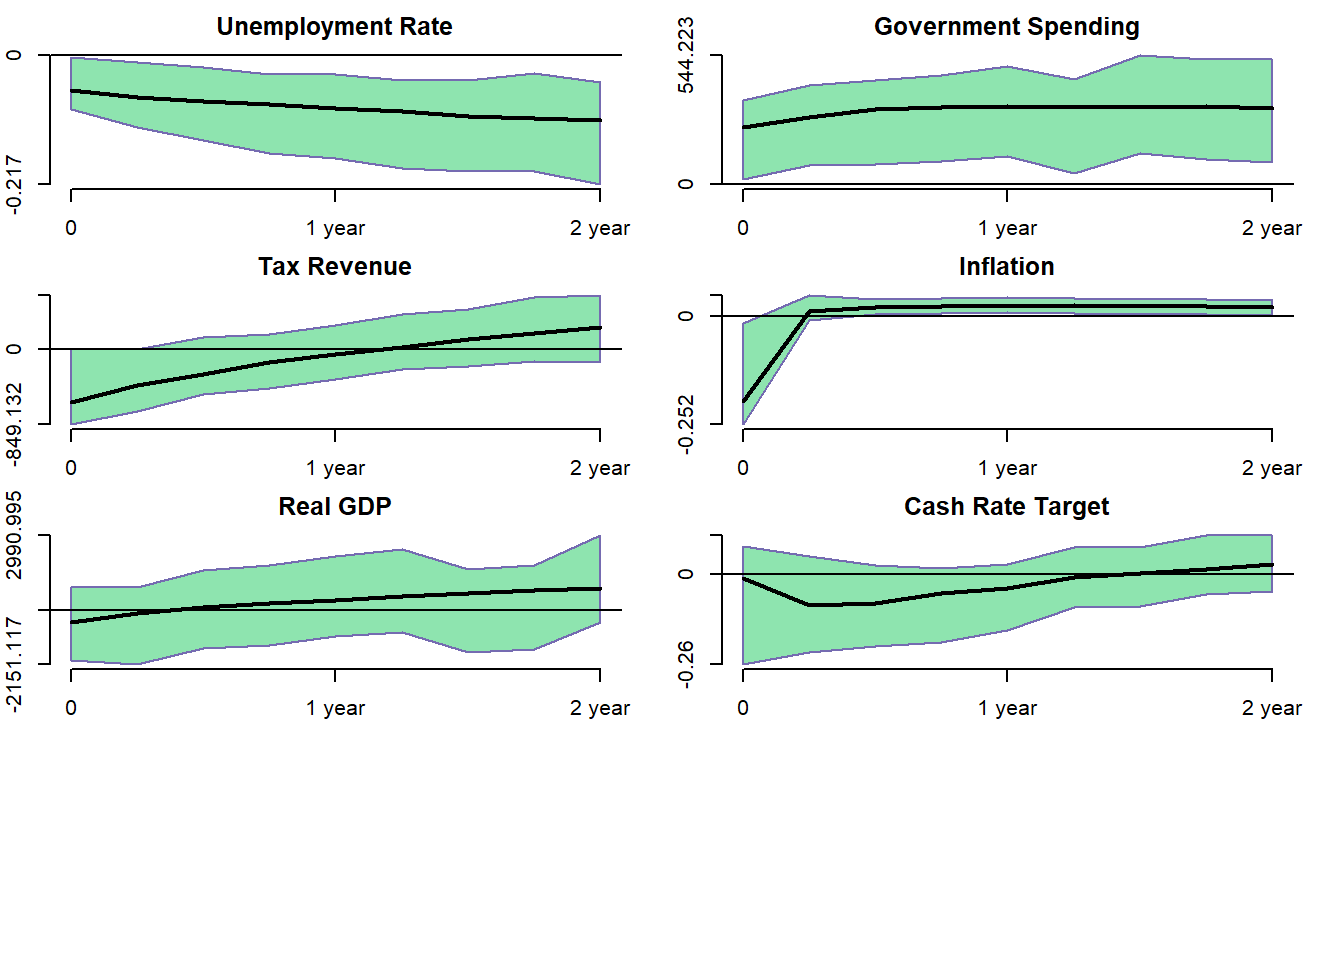
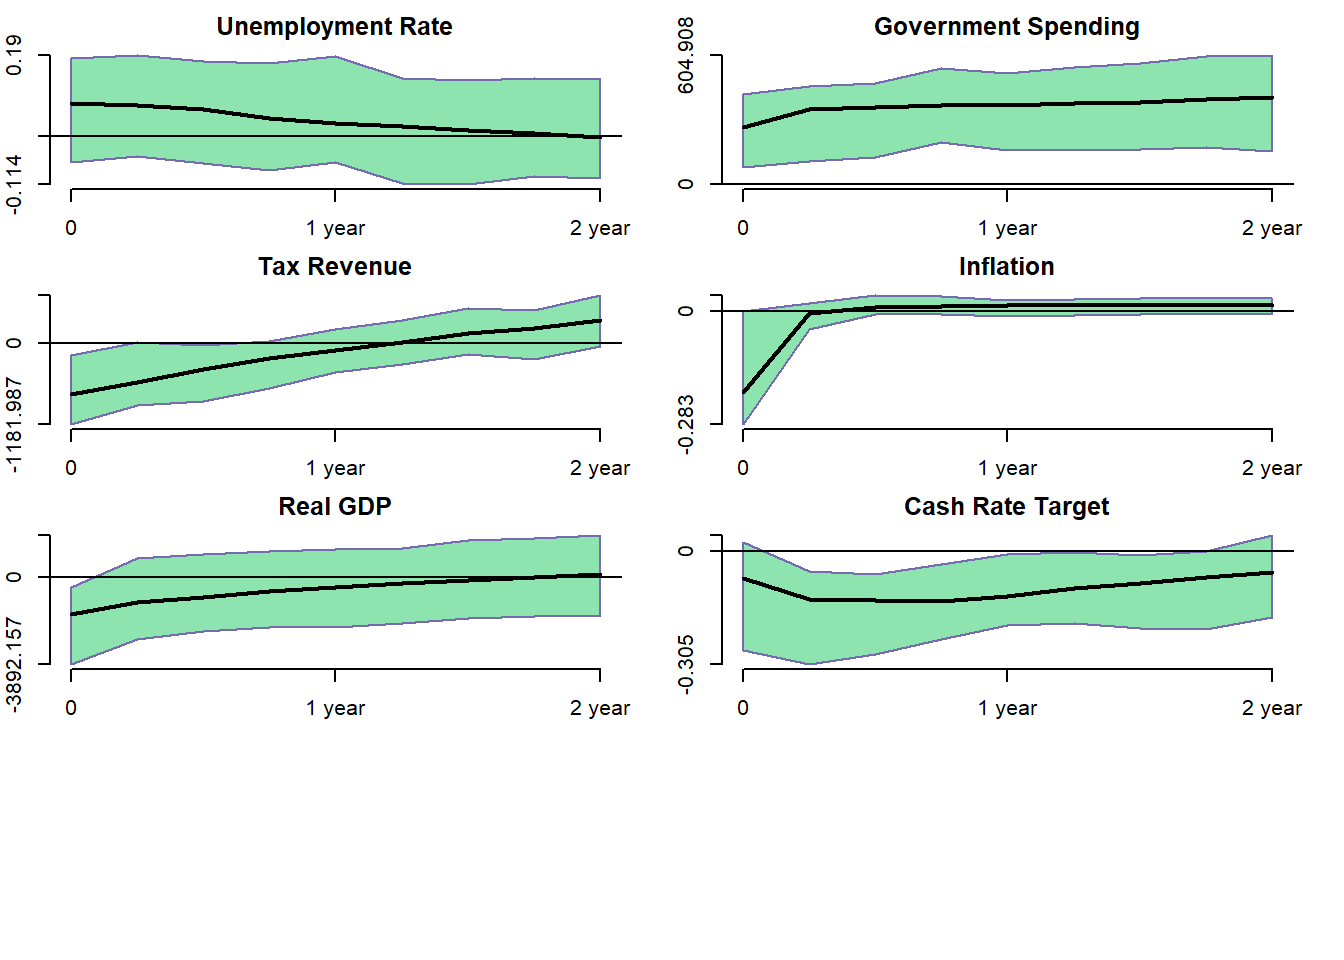
tiny changes

diff --git a/docs/index.html b/docs/index.html
@@ -789,6 +789,7 @@ exp\left\{ -\frac{(\underline{a}-A_{1,nn})^2}{\Sigma_{nn}\underline{V}_{(n+1)(n+
 <h2 class="anchored" data-anchor-id="impulse-response">4.1 Impulse Response</h2>
 <p>Impulse response functions(IRF) to orthogonal shocks computed for an empirically relevant SVAR model are considered the dynamic causal effects of the underlying shocks on economic measurements, <span class="math inline">\(Y_t\)</span> for example.</p>
 <p>The following graphs are impulse responses of basic model after real data are incorporated. The response of unemployment rate is slightly decreasing, indicating that the shock might have a limited but negative impact on it. The slight upward trend suggests an expansion in government expenditure following the shock. Obvious positive effect is shown by tax revenue,real GDP, and cash rate target while initial jump followed by stabilization of inflation suggests that the shock might lead to short-term inflationary pressures that stabilize over time.</p>
+<p>From the impulse response plots, we can conclude there are significant effect on unemployment rate and government spending, but no effect for others.</p>
 <div class="cell">
 <div class="cell-output-display">
 <div>
@@ -798,7 +799,7 @@ exp\left\{ -\frac{(\underline{a}-A_{1,nn})^2}{\Sigma_{nn}\underline{V}_{(n+1)(n+
 </div>
 </div>
 </div>
-<p>Here are the impulse responses for extension model. Compared with baseline model, all patterns are similar.</p>
+<p>Here are the impulse responses for extension model. Compared with baseline model, the effect on unemployment rate turns to insignificant.</p>
 <div class="cell">
 <div class="cell-output-display">
 <div>
